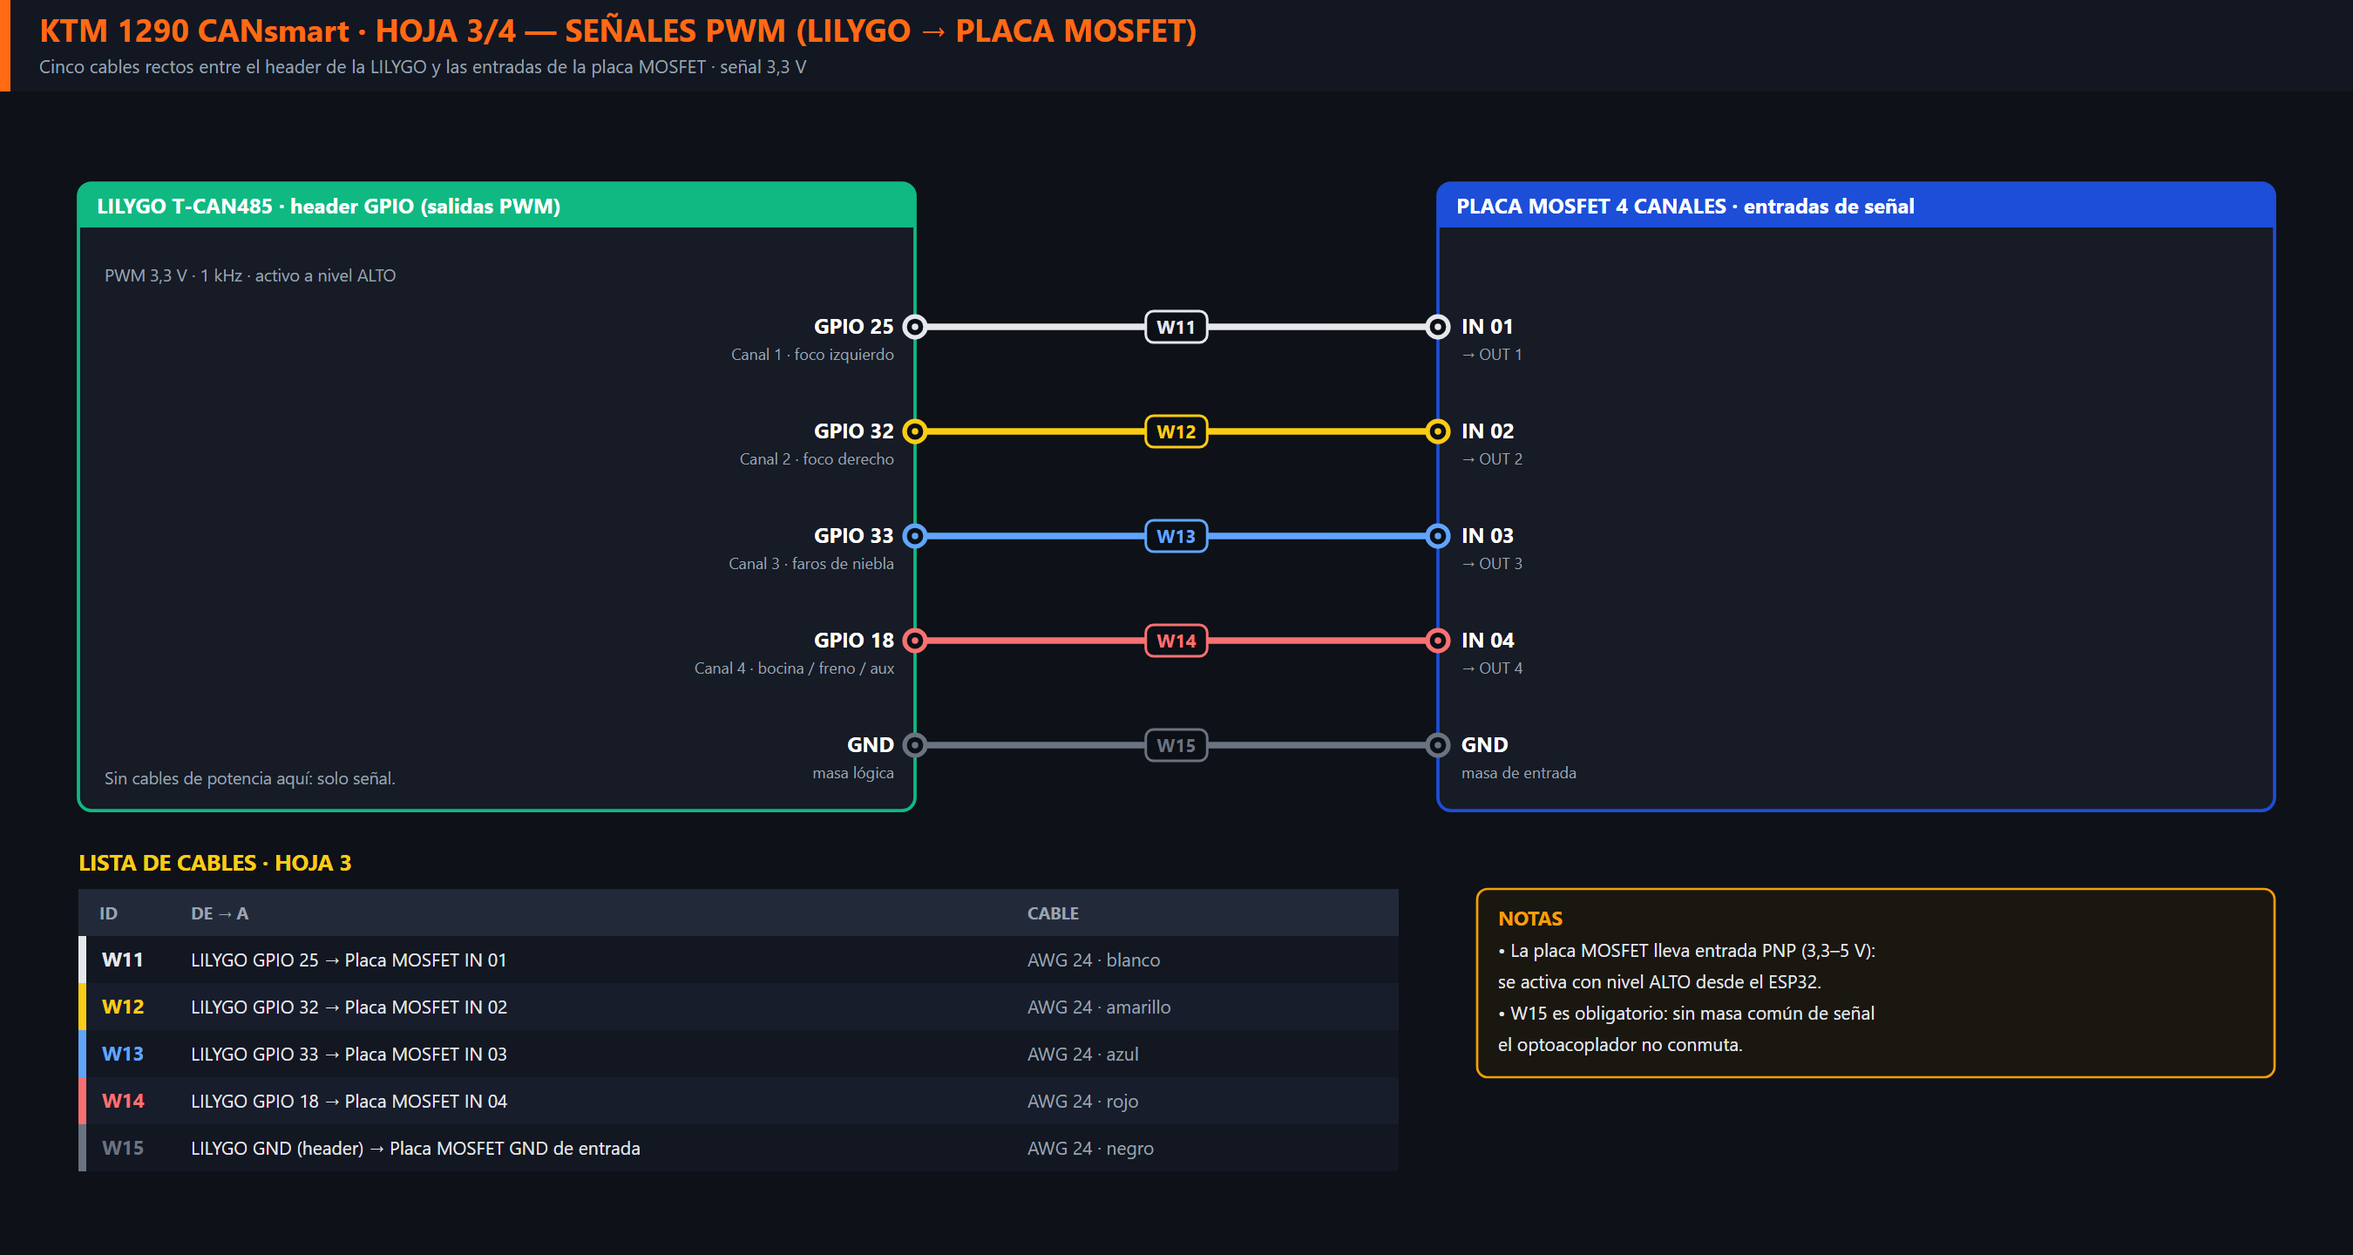
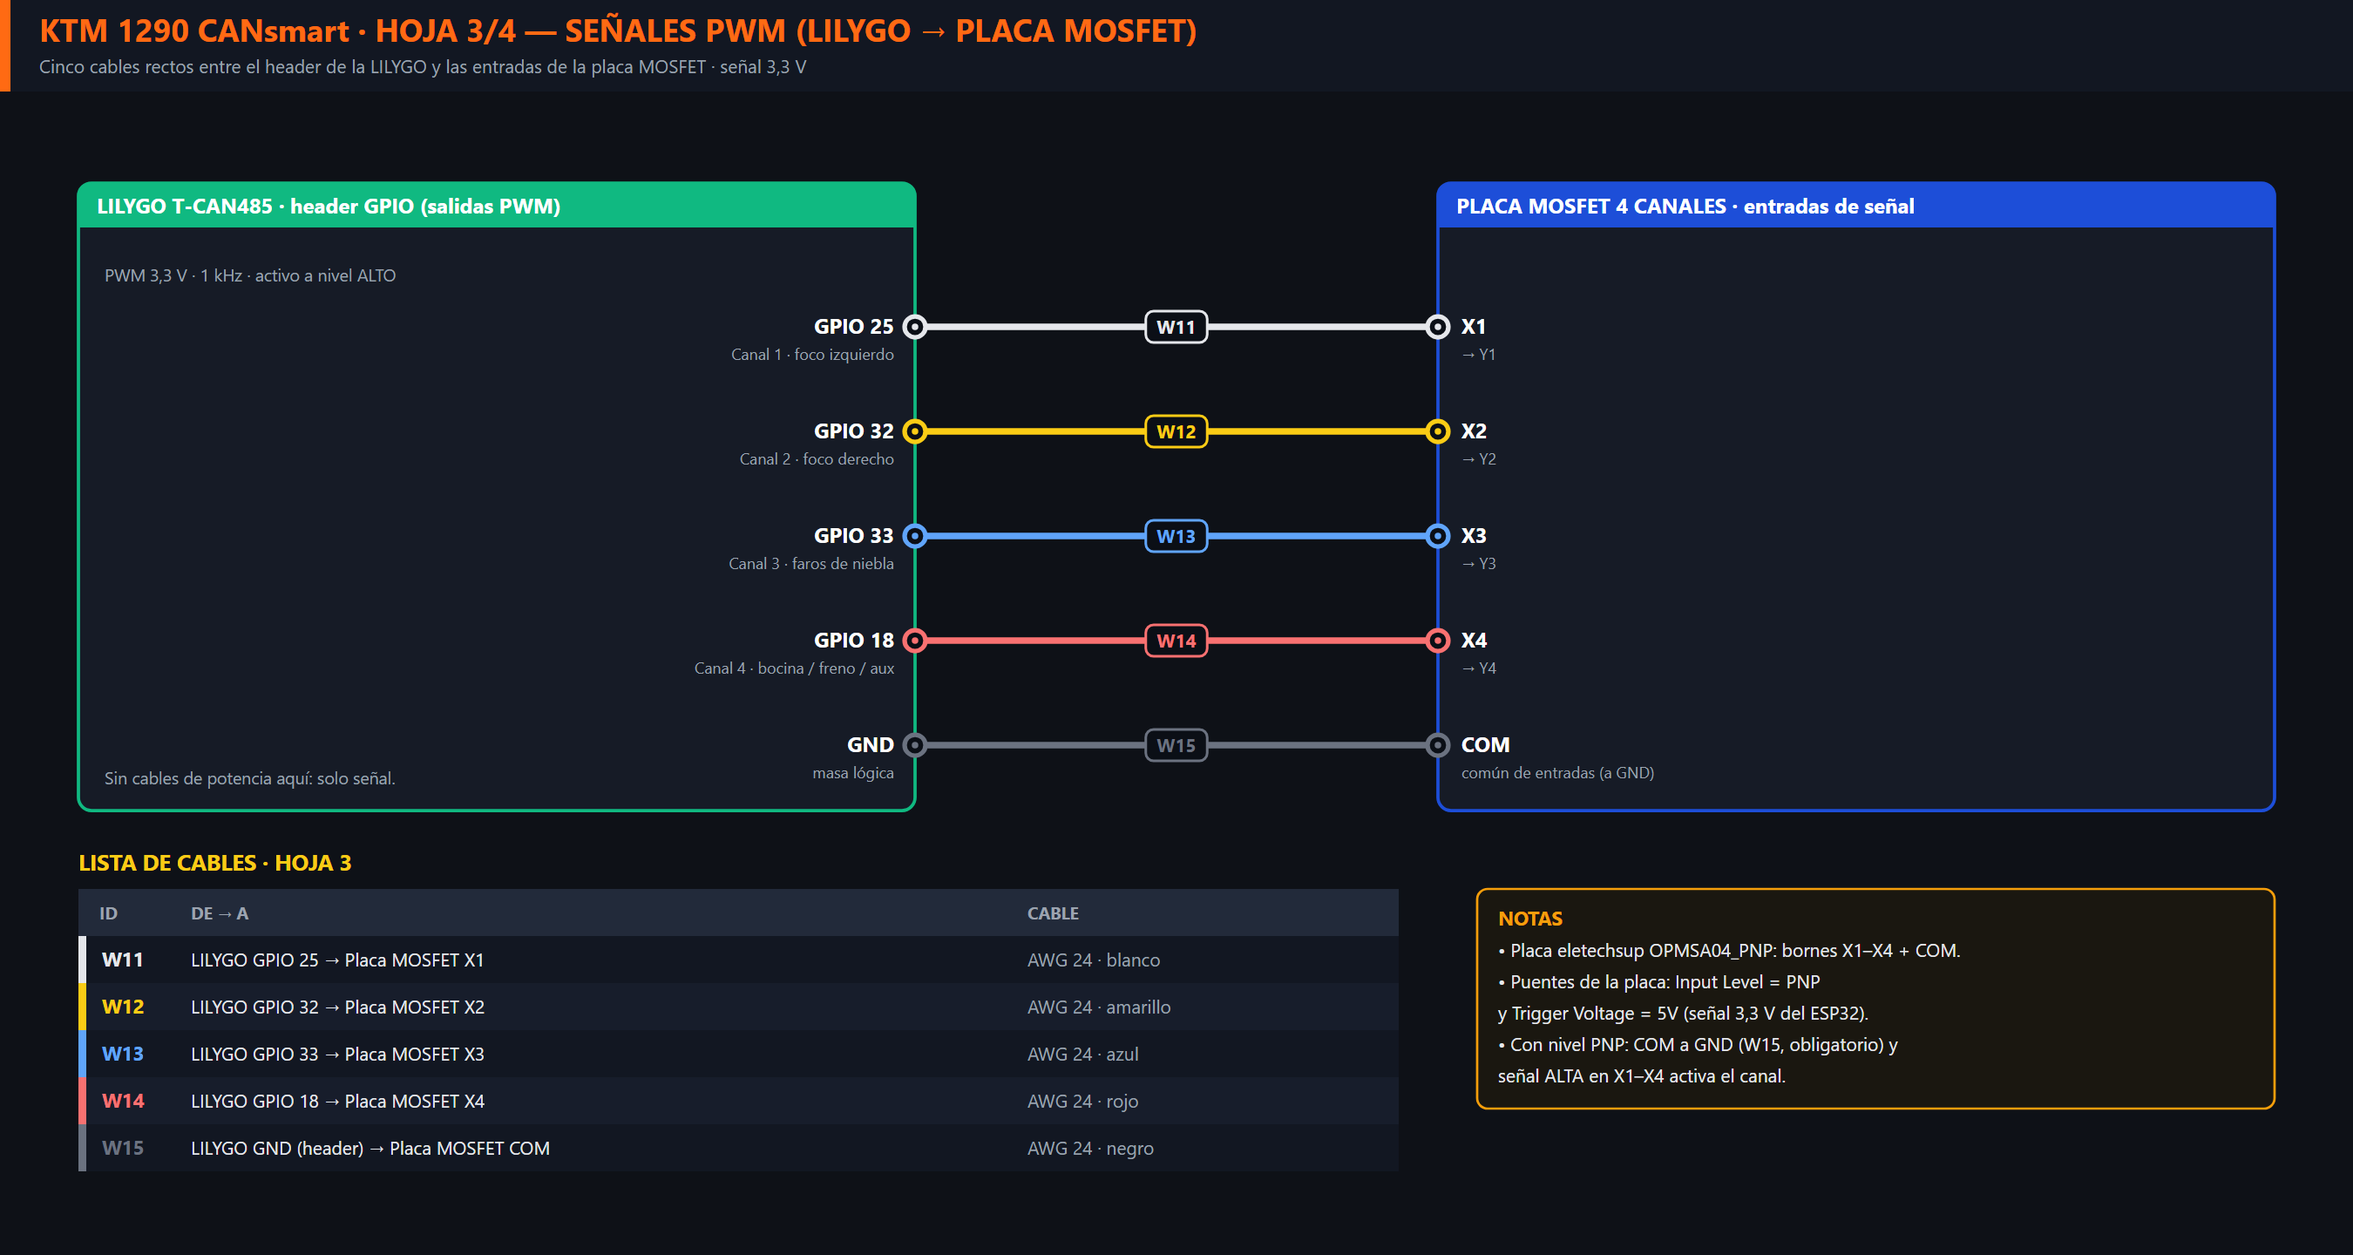
Etiquetas reales de la placa MOSFET eletechsup OPMSA04_PNP (VCC/GND/Y1-Y4, X1-X4/COM) y puentes PNP/5V

diff --git a/hardware/generate_diagrams.py b/hardware/generate_diagrams.py
@@ -181,9 +181,9 @@ def sheet1():
 
     # Placa MOSFET
     s.box(60, 560, 700, 250, "PLACA MOSFET 4 CANALES (entrada PNP 3,3–5 V · salida High-Side)", "#1d4ed8")
-    s.text(610, 625, "DC+ (+12 V)", 14, "#fca5a5", "bold", "middle")
-    s.text(78, 645, "DC− (GND)", 14, "#93c5fd", "bold")
-    s.text(410, 720, "Entradas 01–04: Hoja 3   ·   Salidas OUT 1–4: Hoja 4", 14, MUTED, "normal", "middle")
+    s.text(610, 625, "VCC (+12 V)", 14, "#fca5a5", "bold", "middle")
+    s.text(78, 645, "GND (−)", 14, "#93c5fd", "bold")
+    s.text(410, 720, "Entradas X1–X4: Hoja 3   ·   Salidas Y1–Y4: Hoja 4", 14, MUTED, "normal", "middle")
     s.text(410, 750, "Máx. 5 A por canal", 14, MUTED, "normal", "middle")
 
     # Cables
@@ -205,9 +205,9 @@ def sheet1():
     rows = [
         ("W1", "Batería (+)  →  Portafusible ENTRADA", "AWG 14 rojo · anilla M6", RED),
         ("W2", "Portafusible SALIDA  →  Convertidor IN (+)", "AWG 18 rojo", RED),
-        ("W3", "Portafusible SALIDA  →  Placa MOSFET DC+", "AWG 14 rojo", RED),
+        ("W3", "Portafusible SALIDA  →  Placa MOSFET VCC", "AWG 14 rojo", RED),
         ("W4", "Batería (−)  →  Convertidor IN (−)", "AWG 18 negro · anilla M6", BLUE),
-        ("W5", "Batería (−)  →  Placa MOSFET DC−", "AWG 14 negro · anilla M6", BLUE),
+        ("W5", "Batería (−)  →  Placa MOSFET GND", "AWG 14 negro · anilla M6", BLUE),
         ("W6", "Convertidor OUT (+) 5 V  →  LILYGO VIN", "AWG 20 rojo", CYAN),
         ("W7", "Convertidor OUT (−)  →  LILYGO GND", "AWG 20 negro", GREY),
     ]
@@ -301,7 +301,7 @@ def sheet3():
     left = [("GPIO 25", "Canal 1 · foco izquierdo"), ("GPIO 32", "Canal 2 · foco derecho"),
             ("GPIO 33", "Canal 3 · faros de niebla"), ("GPIO 18", "Canal 4 · bocina / freno / aux"),
             ("GND", "masa lógica")]
-    right = [("IN 01", "→ OUT 1"), ("IN 02", "→ OUT 2"), ("IN 03", "→ OUT 3"), ("IN 04", "→ OUT 4"), ("GND", "masa de entrada")]
+    right = [("X1", "→ Y1"), ("X2", "→ Y2"), ("X3", "→ Y3"), ("X4", "→ Y4"), ("COM", "común de entradas (a GND)")]
     cols = [TXT, YELLOW, "#60a5fa", "#f87171", GREY]
     ids = ["W11", "W12", "W13", "W14", "W15"]
     for y, (a, b), (c, d), col, wid in zip(ys, left, right, cols, ids):
@@ -317,18 +317,19 @@ def sheet3():
     s.text(80, 600, "Sin cables de potencia aquí: solo señal.", 13, MUTED)
 
     rows = [
-        ("W11", "LILYGO GPIO 25  →  Placa MOSFET IN 01", "AWG 24 · blanco", TXT),
-        ("W12", "LILYGO GPIO 32  →  Placa MOSFET IN 02", "AWG 24 · amarillo", YELLOW),
-        ("W13", "LILYGO GPIO 33  →  Placa MOSFET IN 03", "AWG 24 · azul", "#60a5fa"),
-        ("W14", "LILYGO GPIO 18  →  Placa MOSFET IN 04", "AWG 24 · rojo", "#f87171"),
-        ("W15", "LILYGO GND (header)  →  Placa MOSFET GND de entrada", "AWG 24 · negro", GREY),
+        ("W11", "LILYGO GPIO 25  →  Placa MOSFET X1", "AWG 24 · blanco", TXT),
+        ("W12", "LILYGO GPIO 32  →  Placa MOSFET X2", "AWG 24 · amarillo", YELLOW),
+        ("W13", "LILYGO GPIO 33  →  Placa MOSFET X3", "AWG 24 · azul", "#60a5fa"),
+        ("W14", "LILYGO GPIO 18  →  Placa MOSFET X4", "AWG 24 · rojo", "#f87171"),
+        ("W15", "LILYGO GND (header)  →  Placa MOSFET COM", "AWG 24 · negro", GREY),
     ]
     s.table(60, 680, [("ID", 70), ("DE  →  A", 640), ("CABLE", 300)], rows, "LISTA DE CABLES · HOJA 3")
     s.note(1130, 680, 610, [
-        "• La placa MOSFET lleva entrada PNP (3,3–5 V):",
-        "  se activa con nivel ALTO desde el ESP32.",
-        "• W15 es obligatorio: sin masa común de señal",
-        "  el optoacoplador no conmuta.",
+        "• Placa eletechsup OPMSA04_PNP: bornes X1–X4 + COM.",
+        "• Puentes de la placa: Input Level = PNP",
+        "  y Trigger Voltage = 5V (señal 3,3 V del ESP32).",
+        "• Con nivel PNP: COM a GND (W15, obligatorio) y",
+        "  señal ALTA en X1–X4 activa el canal.",
     ], AMBER, "NOTAS")
     return s
 
@@ -342,24 +343,24 @@ def sheet4():
 
     # Placa MOSFET (izquierda)
     s.box(60, 110, 420, 814, "PLACA MOSFET 4 CANALES · salidas", "#1d4ed8")
-    outs = [(175, "OUT 1", "Canal 1"), (355, "OUT 2", "Canal 2"), (535, "OUT 3", "Canal 3"), (777, "OUT 4", "Canal 4")]
+    outs = [(175, "Y1", "Canal 1"), (355, "Y2", "Canal 2"), (535, "Y3", "Canal 3"), (777, "Y4", "Canal 4")]
     for y, a, b in outs:
         s.text(462, y + 5, a + " · +12 V PWM", 16, "#ffffff", "bold", "end")
         s.text(462, y + 25, b + " · máx. 5 A", 12, MUTED, "normal", "end")
-    s.text(270, 640, "Alimentación DC+ / DC−: Hoja 1", 13, MUTED, "normal", "middle")
-    s.text(270, 665, "Entradas 01–04: Hoja 3", 13, MUTED, "normal", "middle")
+    s.text(270, 640, "Alimentación VCC / GND: Hoja 1", 13, MUTED, "normal", "middle")
+    s.text(270, 665, "Entradas X1–X4: Hoja 3", 13, MUTED, "normal", "middle")
 
     # Conectores
     conns = [
         (110, 150, "CONECTOR 1 · 2 PINES · FOCO IZQUIERDO (SET 1)", YELLOW, [175, 231],
-         [("1", "+12 V PWM · OUT 1", "Foco izquierdo · rojo AWG 16", RED), ("2", "GND (masa común)", "desde regleta GND · negro AWG 16", BLUE)]),
+         [("1", "+12 V PWM · Y1", "Foco izquierdo · rojo AWG 16", RED), ("2", "GND (masa común)", "desde regleta GND · negro AWG 16", BLUE)]),
         (290, 150, "CONECTOR 2 · 2 PINES · FOCO DERECHO (SET 1)", YELLOW, [355, 411],
-         [("1", "+12 V PWM · OUT 2", "Foco derecho · rojo AWG 16", RED), ("2", "GND (masa común)", "desde regleta GND · negro AWG 16", BLUE)]),
+         [("1", "+12 V PWM · Y2", "Foco derecho · rojo AWG 16", RED), ("2", "GND (masa común)", "desde regleta GND · negro AWG 16", BLUE)]),
         (470, 212, "CONECTOR 3 · 3 PINES · FAROS DE NIEBLA (SET 2)", CYAN, [535, 591, 647],
-         [("1", "+12 V PWM · OUT 3", "Faro de niebla · rojo AWG 16", RED), ("2", "GND (masa común)", "desde regleta GND · negro AWG 16", BLUE),
+         [("1", "+12 V PWM · Y3", "Faro de niebla · rojo AWG 16", RED), ("2", "GND (masa común)", "desde regleta GND · negro AWG 16", BLUE),
           ("3", "+12 V PWM · puente con Pin 1", "Aro DRL del foco · amarillo AWG 18", AMBER)]),
         (712, 212, "CONECTOR 4 · 3 PINES · BOCINA / FRENO / AUX", "#ec4899", [777, 833, 889],
-         [("1", "+12 V PWM · OUT 4", "Bocina / luz freno estrobo · rojo AWG 16", RED), ("2", "GND (masa común)", "desde regleta GND · negro AWG 16", BLUE),
+         [("1", "+12 V PWM · Y4", "Bocina / luz freno estrobo · rojo AWG 16", RED), ("2", "GND (masa común)", "desde regleta GND · negro AWG 16", BLUE),
           ("3", "+12 V PWM · puente con Pin 1", "Luz de posición / aux · amarillo AWG 18", AMBER)]),
     ]
     pin_y = {}
@@ -407,10 +408,10 @@ def sheet4():
     s.junction(1450, 540, "#93c5fd")
 
     rows = [
-        ("W16", "Placa MOSFET OUT 1  →  Conector 1 · Pin 1", "AWG 16 rojo", RED),
-        ("W17", "Placa MOSFET OUT 2  →  Conector 2 · Pin 1", "AWG 16 rojo", RED),
-        ("W18", "Placa MOSFET OUT 3  →  Conector 3 · Pin 1", "AWG 16 rojo", RED),
-        ("W19", "Placa MOSFET OUT 4  →  Conector 4 · Pin 1", "AWG 16 rojo", RED),
+        ("W16", "Placa MOSFET Y1  →  Conector 1 · Pin 1", "AWG 16 rojo", RED),
+        ("W17", "Placa MOSFET Y2  →  Conector 2 · Pin 1", "AWG 16 rojo", RED),
+        ("W18", "Placa MOSFET Y3  →  Conector 3 · Pin 1", "AWG 16 rojo", RED),
+        ("W19", "Placa MOSFET Y4  →  Conector 4 · Pin 1", "AWG 16 rojo", RED),
         ("W20", "Conector 3 · Pin 1  →  Conector 3 · Pin 3 (puente, mismo canal)", "AWG 18 amarillo", AMBER),
         ("W21", "Conector 4 · Pin 1  →  Conector 4 · Pin 3 (puente, mismo canal)", "AWG 18 amarillo", AMBER),
         ("W22", "Batería (−)  →  Regleta GND", "AWG 14 negro · anilla M6", BLUE),

diff --git a/EsquematicoConexiones.md b/EsquematicoConexiones.md
@@ -25,9 +25,9 @@ El esquema está dividido en **4 hojas**. Cada hoja es una etapa del montaje, **
 | :---: | :--- | :--- |
 | **W1** | Batería (+) → Portafusible ENTRADA | AWG 14 rojo · anilla M6 |
 | **W2** | Portafusible SALIDA → Convertidor IN (+) | AWG 18 rojo |
-| **W3** | Portafusible SALIDA → Placa MOSFET DC+ | AWG 14 rojo |
+| **W3** | Portafusible SALIDA → Placa MOSFET VCC | AWG 14 rojo |
 | **W4** | Batería (−) → Convertidor IN (−) | AWG 18 negro · anilla M6 |
-| **W5** | Batería (−) → Placa MOSFET DC− | AWG 14 negro · anilla M6 |
+| **W5** | Batería (−) → Placa MOSFET GND | AWG 14 negro · anilla M6 |
 | **W6** | Convertidor OUT (+) 5 V → LILYGO VIN | AWG 20 rojo |
 | **W7** | Convertidor OUT (−) → LILYGO GND | AWG 20 negro |
 
@@ -53,10 +53,10 @@ Pin 3 (+12 V contacto) y pines 5/6 (K-Line/aux) del conector Euro 5: **no se con
 
 | ID | De → A | Canal / función |
 | :---: | :--- | :--- |
-| **W11** | LILYGO `GPIO 25` → MOSFET `IN 01` | Canal 1 · foco izquierdo |
-| **W12** | LILYGO `GPIO 32` → MOSFET `IN 02` | Canal 2 · foco derecho |
-| **W13** | LILYGO `GPIO 33` → MOSFET `IN 03` | Canal 3 · faros de niebla |
-| **W14** | LILYGO `GPIO 18` → MOSFET `IN 04` | Canal 4 · bocina / freno / aux |
+| **W11** | LILYGO `GPIO 25` → MOSFET `X1` | Canal 1 · foco izquierdo |
+| **W12** | LILYGO `GPIO 32` → MOSFET `X2` | Canal 2 · foco derecho |
+| **W13** | LILYGO `GPIO 33` → MOSFET `X3` | Canal 3 · faros de niebla |
+| **W14** | LILYGO `GPIO 18` → MOSFET `X4` | Canal 4 · bocina / freno / aux |
 | **W15** | LILYGO `GND` → MOSFET `GND` de entrada | Masa lógica (obligatoria) |
 
 ---
@@ -67,10 +67,10 @@ Pin 3 (+12 V contacto) y pines 5/6 (K-Line/aux) del conector Euro 5: **no se con
 
 | ID | De → A | Cable |
 | :---: | :--- | :--- |
-| **W16** | MOSFET `OUT 1` → Conector 1 (2 pines) · Pin 1 | AWG 16 rojo |
-| **W17** | MOSFET `OUT 2` → Conector 2 (2 pines) · Pin 1 | AWG 16 rojo |
-| **W18** | MOSFET `OUT 3` → Conector 3 (3 pines) · Pin 1 | AWG 16 rojo |
-| **W19** | MOSFET `OUT 4` → Conector 4 (3 pines) · Pin 1 | AWG 16 rojo |
+| **W16** | MOSFET `Y1` → Conector 1 (2 pines) · Pin 1 | AWG 16 rojo |
+| **W17** | MOSFET `Y2` → Conector 2 (2 pines) · Pin 1 | AWG 16 rojo |
+| **W18** | MOSFET `Y3` → Conector 3 (3 pines) · Pin 1 | AWG 16 rojo |
+| **W19** | MOSFET `Y4` → Conector 4 (3 pines) · Pin 1 | AWG 16 rojo |
 | **W20** | Conector 3 · Pin 1 → Conector 3 · Pin 3 (puente, mismo canal) | AWG 18 amarillo |
 | **W21** | Conector 4 · Pin 1 → Conector 4 · Pin 3 (puente, mismo canal) | AWG 18 amarillo |
 | **W22** | Batería (−) → Regleta GND | AWG 14 negro · anilla M6 |
@@ -83,10 +83,10 @@ Pin 3 (+12 V contacto) y pines 5/6 (K-Line/aux) del conector Euro 5: **no se con
 
 | Conector | Pines | Pin 1 | Pin 2 | Pin 3 |
 | :--- | :---: | :--- | :--- | :--- |
-| **1** · Foco izquierdo (Set 1) | 2 | +12 V PWM (`OUT 1`) | GND | — |
-| **2** · Foco derecho (Set 1) | 2 | +12 V PWM (`OUT 2`) | GND | — |
-| **3** · Faros de niebla (Set 2) | 3 | +12 V PWM (`OUT 3`) | GND | +12 V PWM (puente con Pin 1) · aro DRL |
-| **4** · Bocina / freno / aux | 3 | +12 V PWM (`OUT 4`) | GND | +12 V PWM (puente con Pin 1) · luz de posición |
+| **1** · Foco izquierdo (Set 1) | 2 | +12 V PWM (`Y1`) | GND | — |
+| **2** · Foco derecho (Set 1) | 2 | +12 V PWM (`Y2`) | GND | — |
+| **3** · Faros de niebla (Set 2) | 3 | +12 V PWM (`Y3`) | GND | +12 V PWM (puente con Pin 1) · aro DRL |
+| **4** · Bocina / freno / aux | 3 | +12 V PWM (`Y4`) | GND | +12 V PWM (puente con Pin 1) · luz de posición |
 
 > 💡 **Sobre el Pin 3:** va en **paralelo con el Pin 1** (mismo canal conmutado). Así se apaga con la moto y respeta el dimmer. **Nunca** lo conectes a +12 V permanente de la batería: el aro quedaría siempre encendido y descargaría la batería. Pin 1 + Pin 3 comparten el límite de 5 A del canal. Si algún día quieres un DRL independiente, hará falta un quinto canal.
 

diff --git a/hardware/schematic_notes.md b/hardware/schematic_notes.md
@@ -87,7 +87,7 @@ En los modelos 2021-2024, KTM sustituyó los antiguos conectores propietarios y 
    * **Modelo**: Placa amplificadora PLC de 4 Canales con aislamiento optoacoplado.
    * **Configuración Seleccionada**:
      * Formato: `4CH Only Board` (compacto para caja bajo asiento).
-     * Control de entrada: `PNP Input 3.3-5V` (compatible con 3.3V nativo de los GPIOs del ESP32).
+     * Control de entrada: `PNP Input 3.3-5V` (compatible con 3.3V nativo de los GPIOs del ESP32). Placa eletechsup OPMSA04_PNP: bornes de potencia VCC, GND, Y1-Y4; bornes de entrada X1-X4 y COM. Puentes de soldadura: Input Level = PNP y Trigger Voltage = 5V. Con nivel PNP, COM va a GND.
      * Salida conmutada: `PNP Output` (**High-Side**: conmuta +12V con masa común al chasis).
      * Capacidad: Hasta 5A continuos por canal (60W por foco).
 
@@ -130,21 +130,21 @@ Distribución en los 4 conectores **Superseal 1.5** comprados. Los IDs (W16…W2
 
 ### A. Conectores de 2 Pines (Set 1 de focos auxiliares)
 * **Conector 1 (Foco izquierdo)**:
-  * **Pin 1 (rojo AWG 16, W16)**: `OUT 1` (+12 V conmutado por PWM, LEDC canal 0). Dimmer día/noche, ráfagas y apagado con intermitente izquierdo.
+  * **Pin 1 (rojo AWG 16, W16)**: `Y1` (+12 V conmutado por PWM, LEDC canal 0). Dimmer día/noche, ráfagas y apagado con intermitente izquierdo.
   * **Pin 2 (negro AWG 16, W23)**: GND desde la regleta de masa.
 * **Conector 2 (Foco derecho)**:
-  * **Pin 1 (rojo AWG 16, W17)**: `OUT 2` (+12 V conmutado por PWM, LEDC canal 1). Dimmer día/noche, ráfagas y apagado con intermitente derecho.
+  * **Pin 1 (rojo AWG 16, W17)**: `Y2` (+12 V conmutado por PWM, LEDC canal 1). Dimmer día/noche, ráfagas y apagado con intermitente derecho.
   * **Pin 2 (negro AWG 16, W24)**: GND desde la regleta de masa.
 
 ### B. Conectores de 3 Pines (Nieblas y Bocina/Freno)
 * **Conector 3 (Faros de niebla Set 2 + aro DRL)**:
-  * **Pin 1 (rojo AWG 16, W18)**: `OUT 3` (+12 V conmutado por PWM, LEDC canal 2).
+  * **Pin 1 (rojo AWG 16, W18)**: `Y3` (+12 V conmutado por PWM, LEDC canal 2).
   * **Pin 2 (negro AWG 16, W25)**: GND desde la regleta de masa.
-  * **Pin 3 (amarillo AWG 18, W20)**: aro DRL del foco, **en paralelo con el Pin 1** (mismo canal `OUT 3`).
+  * **Pin 3 (amarillo AWG 18, W20)**: aro DRL del foco, **en paralelo con el Pin 1** (mismo canal `Y3`).
 * **Conector 4 (Bocina / luz de freno estroboscópica / accesorio)**:
-  * **Pin 1 (rojo AWG 16, W19)**: `OUT 4` (+12 V conmutado por PWM, LEDC canal 3).
+  * **Pin 1 (rojo AWG 16, W19)**: `Y4` (+12 V conmutado por PWM, LEDC canal 3).
   * **Pin 2 (negro AWG 16, W26)**: GND desde la regleta de masa.
-  * **Pin 3 (amarillo AWG 18, W21)**: luz de posición/aux, **en paralelo con el Pin 1** (mismo canal `OUT 4`).
+  * **Pin 3 (amarillo AWG 18, W21)**: luz de posición/aux, **en paralelo con el Pin 1** (mismo canal `Y4`).
 
 > ⚠ **El Pin 3 no se alimenta de +12 V permanente.** Se puentea al Pin 1 del mismo conector para que se apague con la moto y respete el dimmer. Conectarlo a +12 V directo de batería lo dejaría siempre encendido y descargaría la batería. Pin 1 + Pin 3 comparten el límite de 5 A del canal. Para un DRL independiente haría falta un quinto canal.
 

diff --git a/ListaCompras.md b/ListaCompras.md
@@ -65,7 +65,7 @@ Guía completa y estado actualizado de compras para la construcción del clon DI
 * **Enlace directo de búsqueda:** [Buscar Módulo MOSFET 4CH 3.3V PLC](https://es.aliexpress.com/w/wholesale-4-channel-mosfet-module-3.3v-plc.html)
 * **Opciones validadas:**
   * **Color / Formato:** `4CH Only Board` (más compacta para alojar en caja bajo el asiento).
-  * **Voltaje de Entrada:** `PNP Input 3.3-5V` (se activa con nivel alto a 3.3V desde los pines PWM del ESP32).
+  * **Voltaje de Entrada:** `PNP Input 3.3-5V` (placa eletechsup OPMSA04_PNP; bornes X1-X4 + COM; puentes: Input Level = PNP, Trigger Voltage = 5V; se activa con nivel alto a 3.3V desde los pines PWM del ESP32 con COM a GND).
   * **Voltaje de Salida:** `PNP Output` (**High-Side**: conmuta el cable positivo +12V hacia las luces con masa común al chasis).
 * **Potencia:** Hasta 5A continuos por canal a 12V (60W por canal).
 
